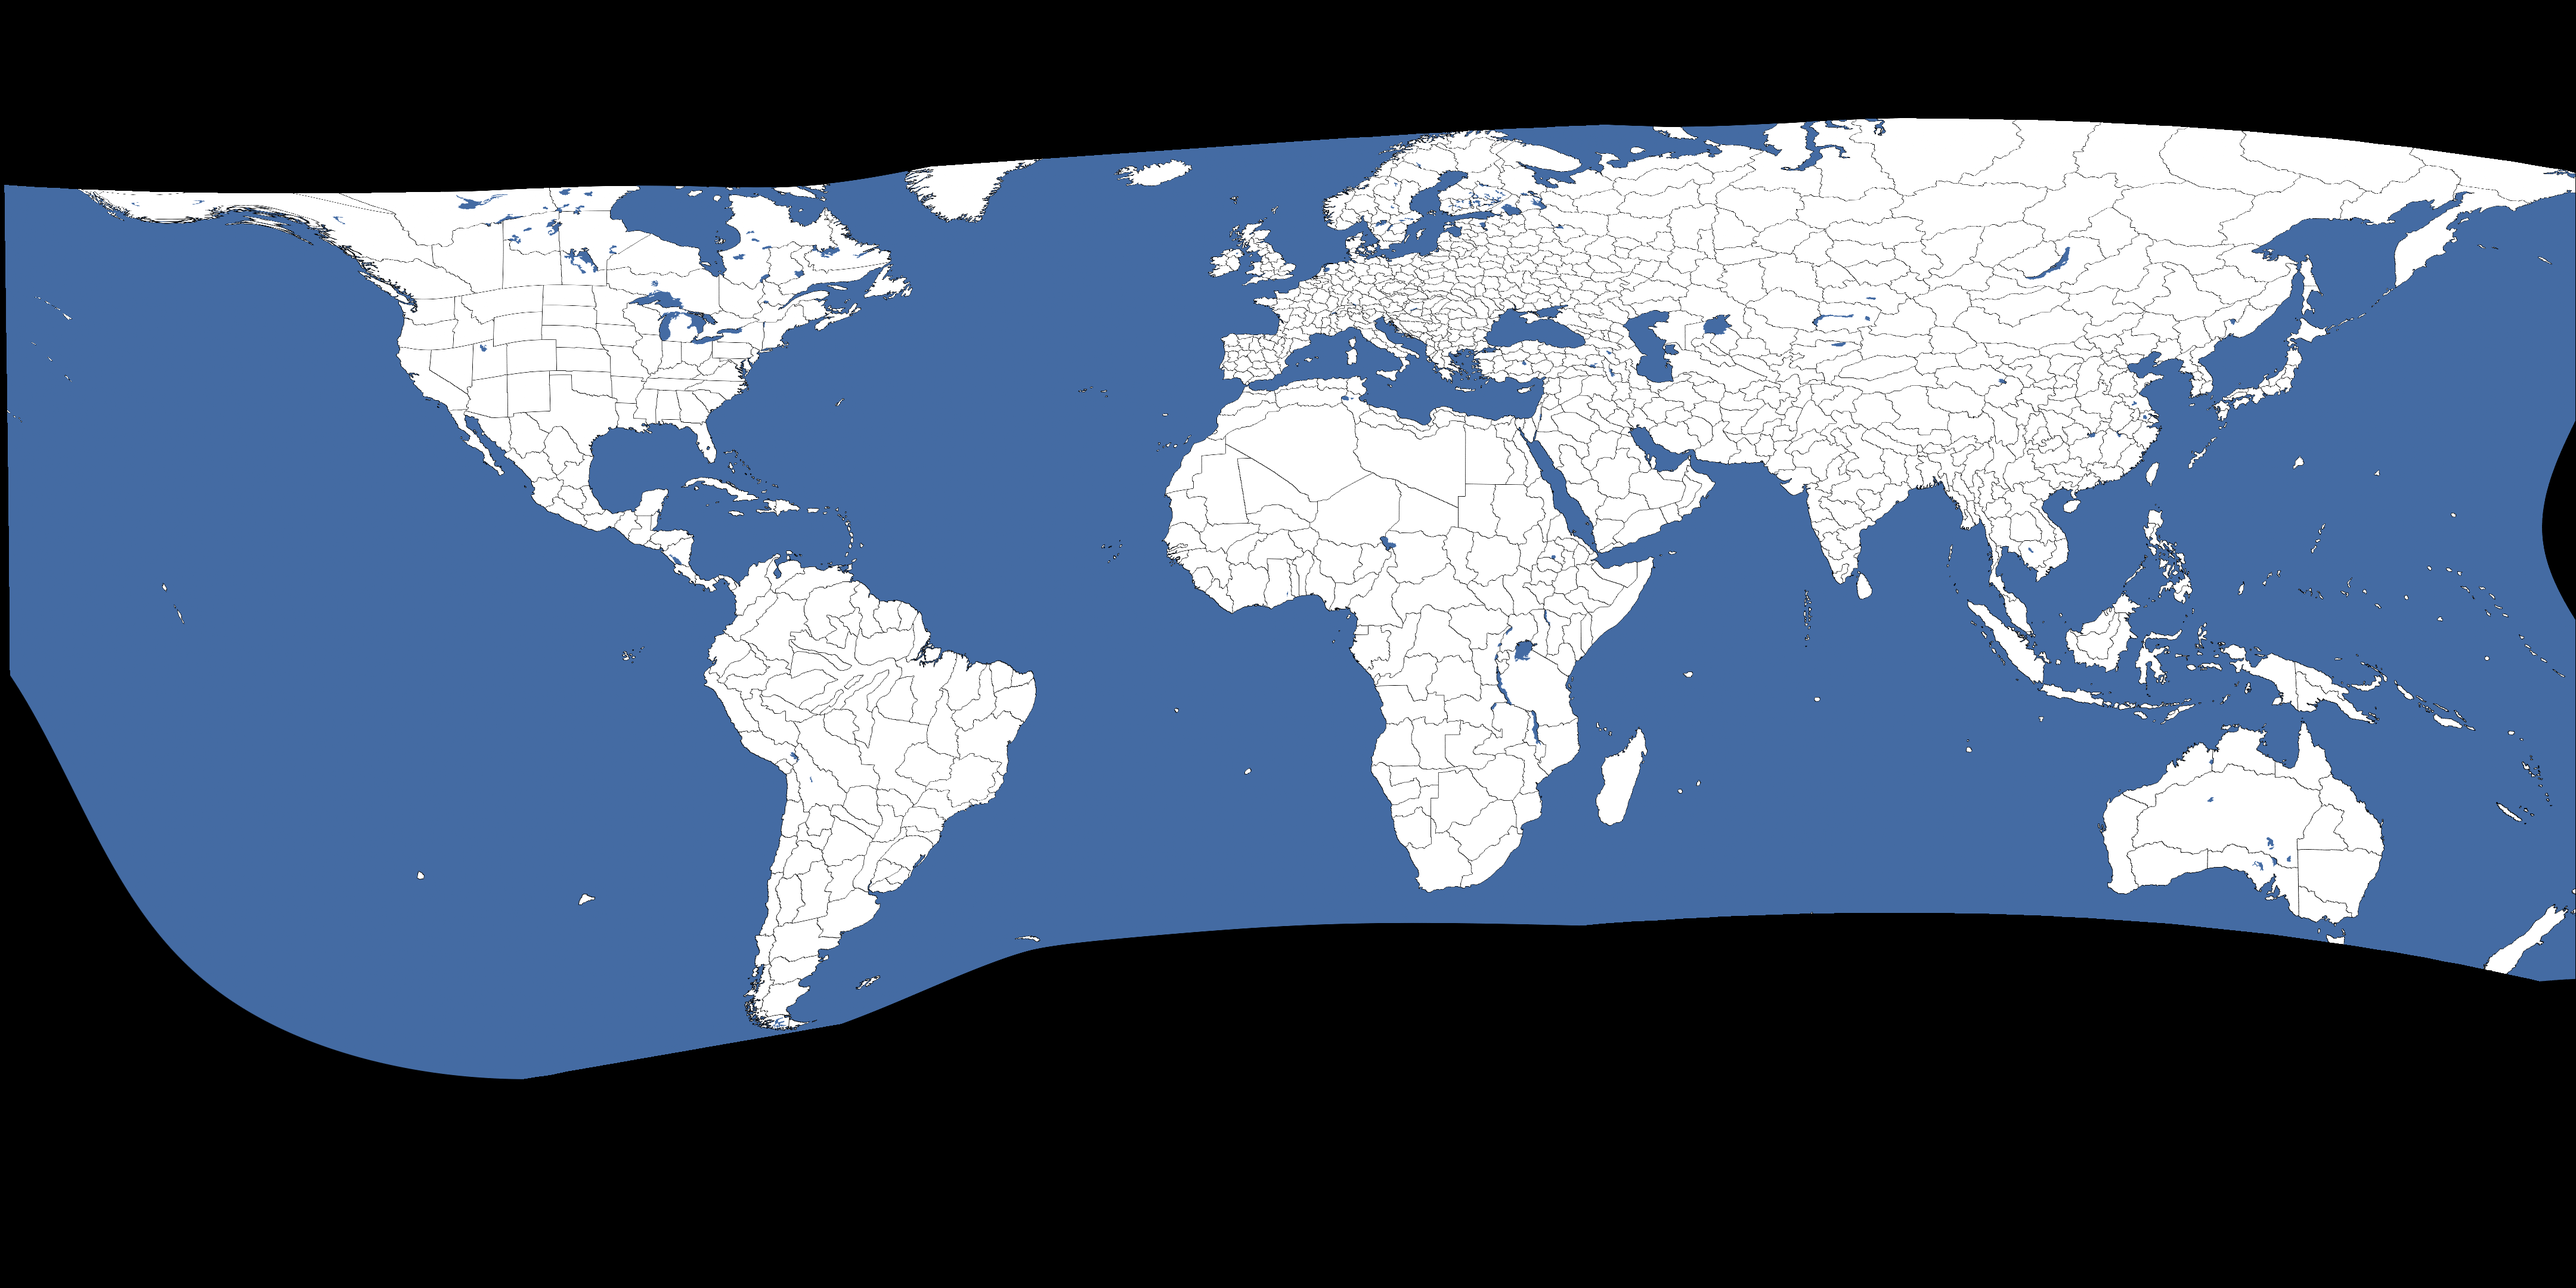
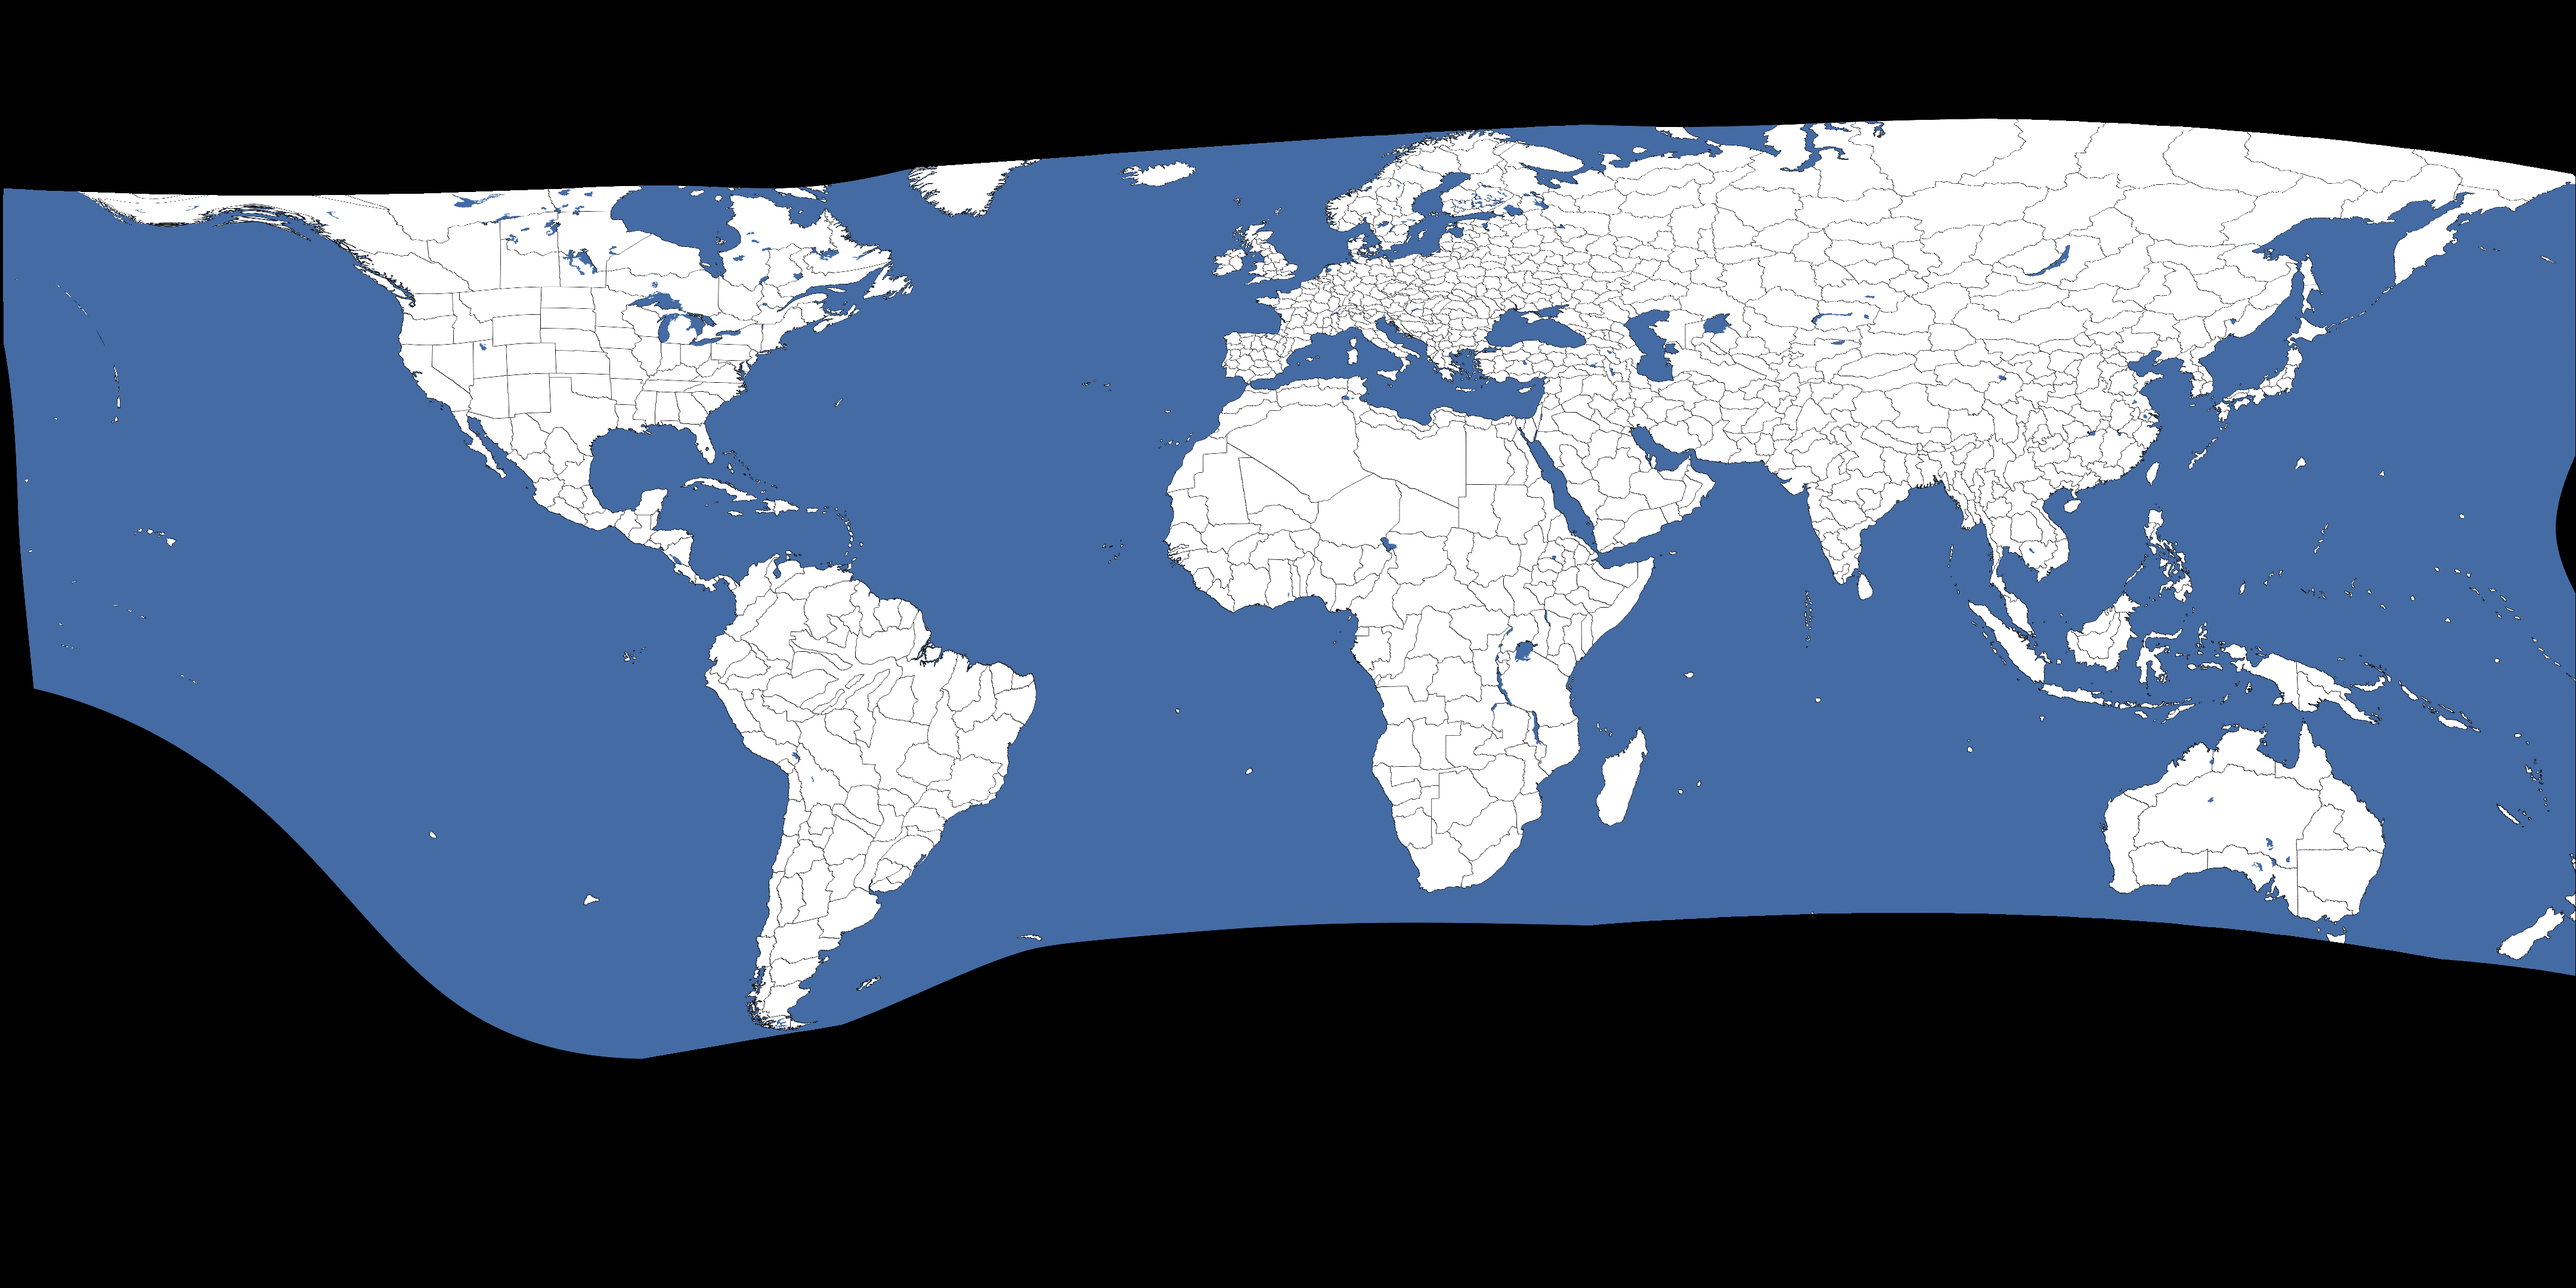
attempting ensemble overfitting

diff --git a/deprojector_1.2/pipeline/C_mesh_warp.py b/deprojector_1.2/pipeline/C_mesh_warp.py
@@ -395,7 +395,8 @@ def sgd_point_warp_polygon_constrained(
     dyn_error_threshold: float = 0.05,
     dyn_min_dist: int = 15,
     prune_interval: int = 150,
-    edge_penalty: float = 0.0, # <--- NEW PARAMETER
+    edge_penalty: float = 0.0,
+    center_penalty: float = 0.0, # <--- NEW PARAMETER
     show_plots: bool = True
 ) -> Tuple[np.ndarray, np.ndarray, dict, float]:
     
@@ -435,18 +436,21 @@ def sgd_point_warp_polygon_constrained(
     src_rgb_np = cv2.cvtColor(src_img, cv2.COLOR_BGR2RGB)
     src_img_t = (torch.from_numpy(src_rgb_np).float().permute(2, 0, 1).unsqueeze(0).to(device) / 255.0)
 
-    # Compute Edge Penalty Map if requested
-    edge_weight_map = None
-    if edge_penalty > 0.0:
+    # Compute Spatial Weight Map if requested (edge and/or center penalties)
+    spatial_weight_map = None
+    if edge_penalty > 0.0 or center_penalty > 0.0:
         y_grid, x_grid = torch.meshgrid(torch.arange(work_h_bbox, device=device), torch.arange(work_w_bbox, device=device), indexing='ij')
         # Normalize to [-1, 1] for both X and Y
         nx = (x_grid / (work_w_bbox - 1)) * 2.0 - 1.0
         ny = (y_grid / (work_h_bbox - 1)) * 2.0 - 1.0
         # Chebyshev distance from the center (0 in center, 1 at edge)
-        dist_to_edge = torch.max(torch.abs(nx), torch.abs(ny))
-        # Linearly scale penalty: 1.0 at center -> (1.0 + edge_penalty) at edge
-        e_weight = 1.0 + edge_penalty * dist_to_edge
-        edge_weight_map = e_weight.unsqueeze(0).unsqueeze(0).float()
+        dist_from_center = torch.max(torch.abs(nx), torch.abs(ny))
+        
+        # Linearly scale penalty:
+        # edge_penalty is applied primarily at the edges (dist = 1)
+        # center_penalty is applied primarily at the center (dist = 0)
+        e_weight = 1.0 + (edge_penalty * dist_from_center) + (center_penalty * (1.0 - dist_from_center))
+        spatial_weight_map = e_weight.unsqueeze(0).unsqueeze(0).float()
     
     # ── Phase 3: Control Point Initialization ─────────────────────
     print("\n▸ Phase 3: Initializing Control Points")
@@ -494,7 +498,7 @@ def sgd_point_warp_polygon_constrained(
             warped = F.grid_sample(src_mask_t, norm_grid, mode="bilinear", padding_mode="zeros", align_corners=True)
             
             l_dice = dice_loss_poly(warped, ref_bbox_sm, poly_mask_t)
-            l_mse = mse_loss_poly(warped, ref_bbox_sm, poly_mask_t, weight_map=edge_weight_map)
+            l_mse = mse_loss_poly(warped, ref_bbox_sm, poly_mask_t, weight_map=spatial_weight_map)
             
             if warp_mode == "affine":
                 l_struct = fold_loss_affine(P_src_t, current_simplices)
@@ -561,10 +565,10 @@ def sgd_point_warp_polygon_constrained(
         # Add Dynamic Points if not the last level
         if lvl < levels - 1:
             with torch.no_grad():
-                # Apply the edge penalty weight to the error map so dynamic points spawn at edges more aggressively
+                # Apply the spatial penalty weight to the error map so dynamic points spawn at penalized regions more aggressively
                 base_err = torch.abs(w_mask - ref_bbox_sm) * poly_mask_t
-                if edge_weight_map is not None:
-                    base_err = base_err * edge_weight_map
+                if spatial_weight_map is not None:
+                    base_err = base_err * spatial_weight_map
                 error_map = base_err[0, 0].cpu().numpy()
                 
             old_len = len(P_ref_np)

diff --git a/deprojector_1.2/app.py b/deprojector_1.2/app.py
@@ -76,7 +76,8 @@ def executePipeline():
             dyn_error_threshold=0.005,         
             dyn_min_dist=12,
             prune_interval=150,     # Attempt to strip down redundant points safely
-            edge_penalty=0,       #16.0: strong edge penalty; 1.0 no edge penalty. 8.0 best compromise?
+            center_penalty=8,
+            edge_penalty=16,       #16.0: strong edge penalty; 1.0 no edge penalty. 8.0 best compromise?
         )
     )
 
